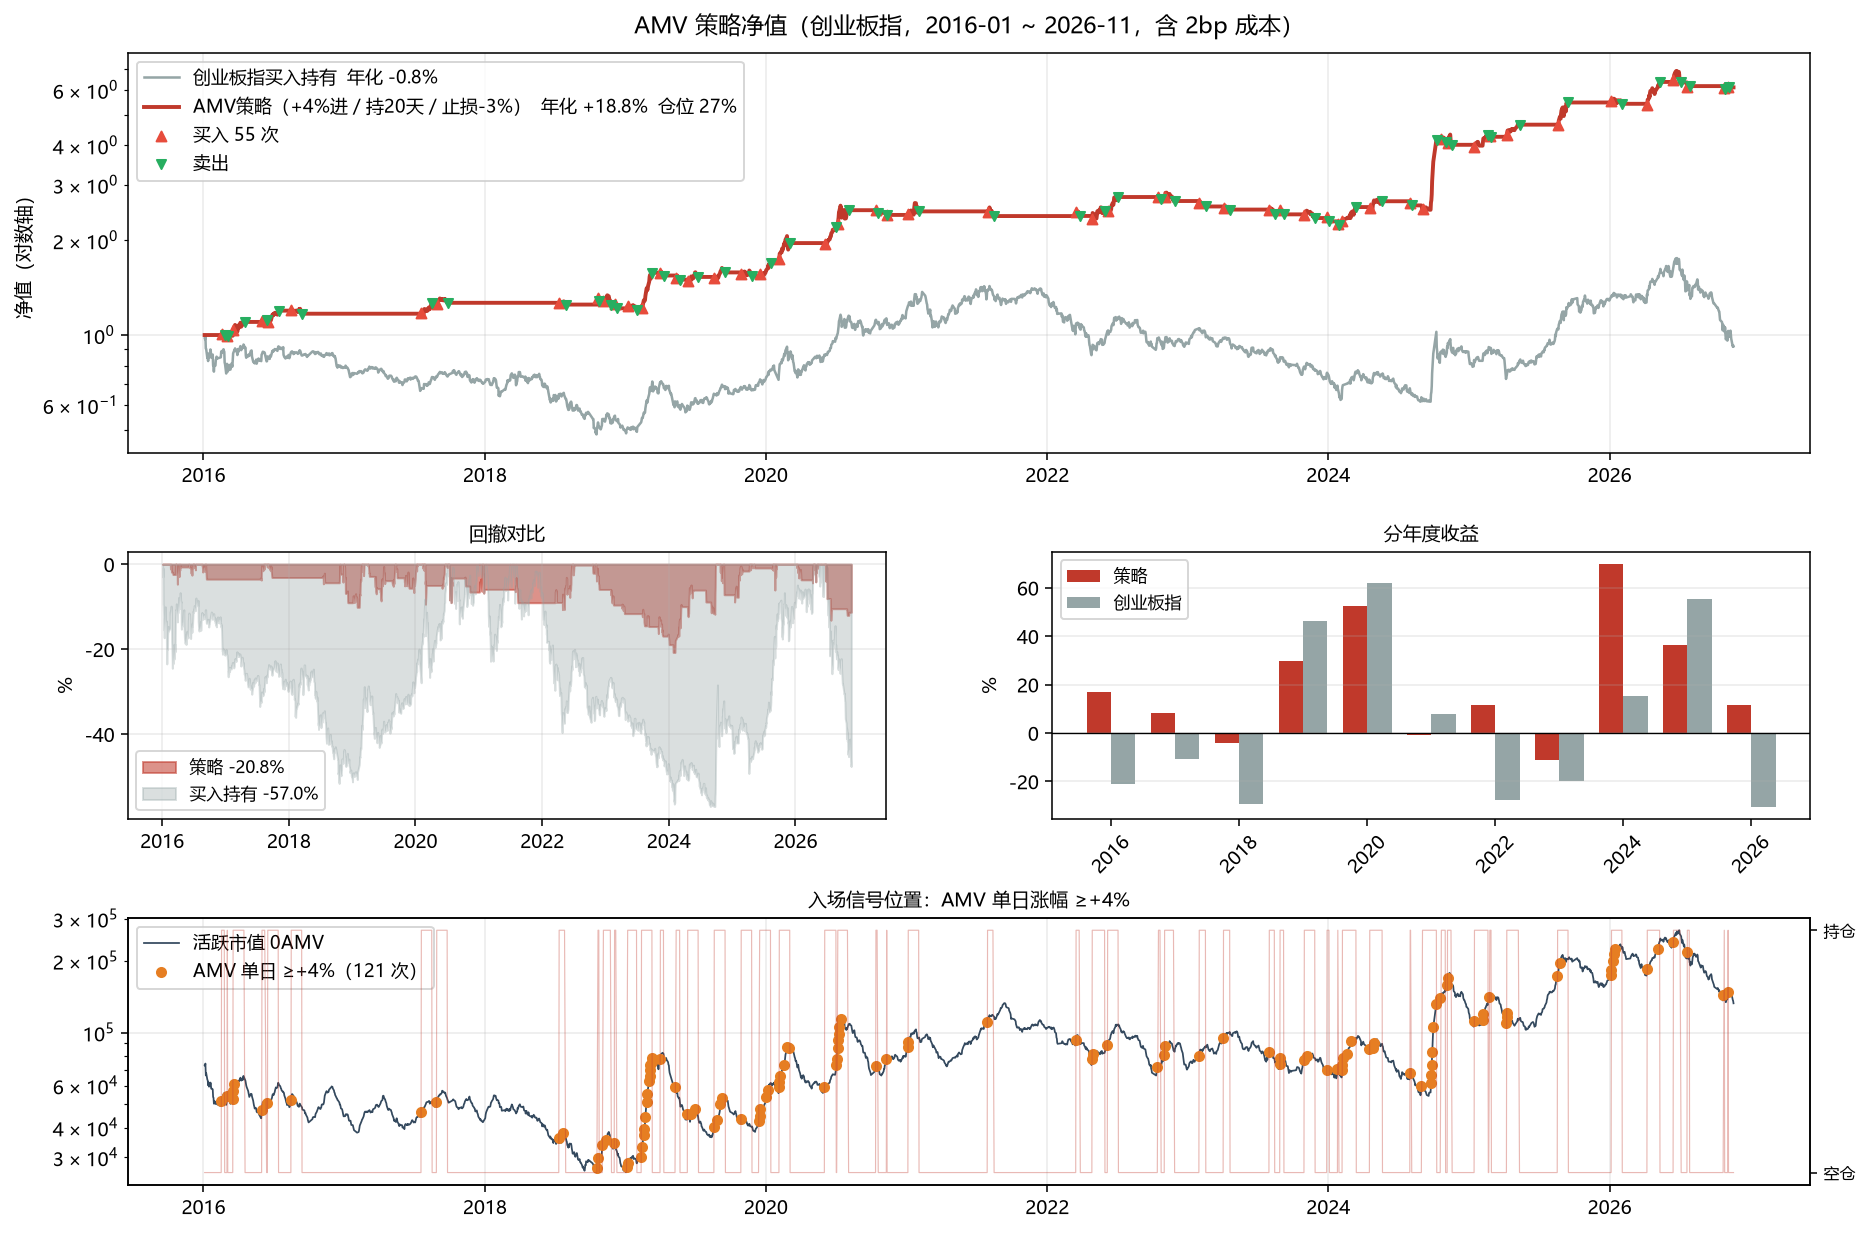
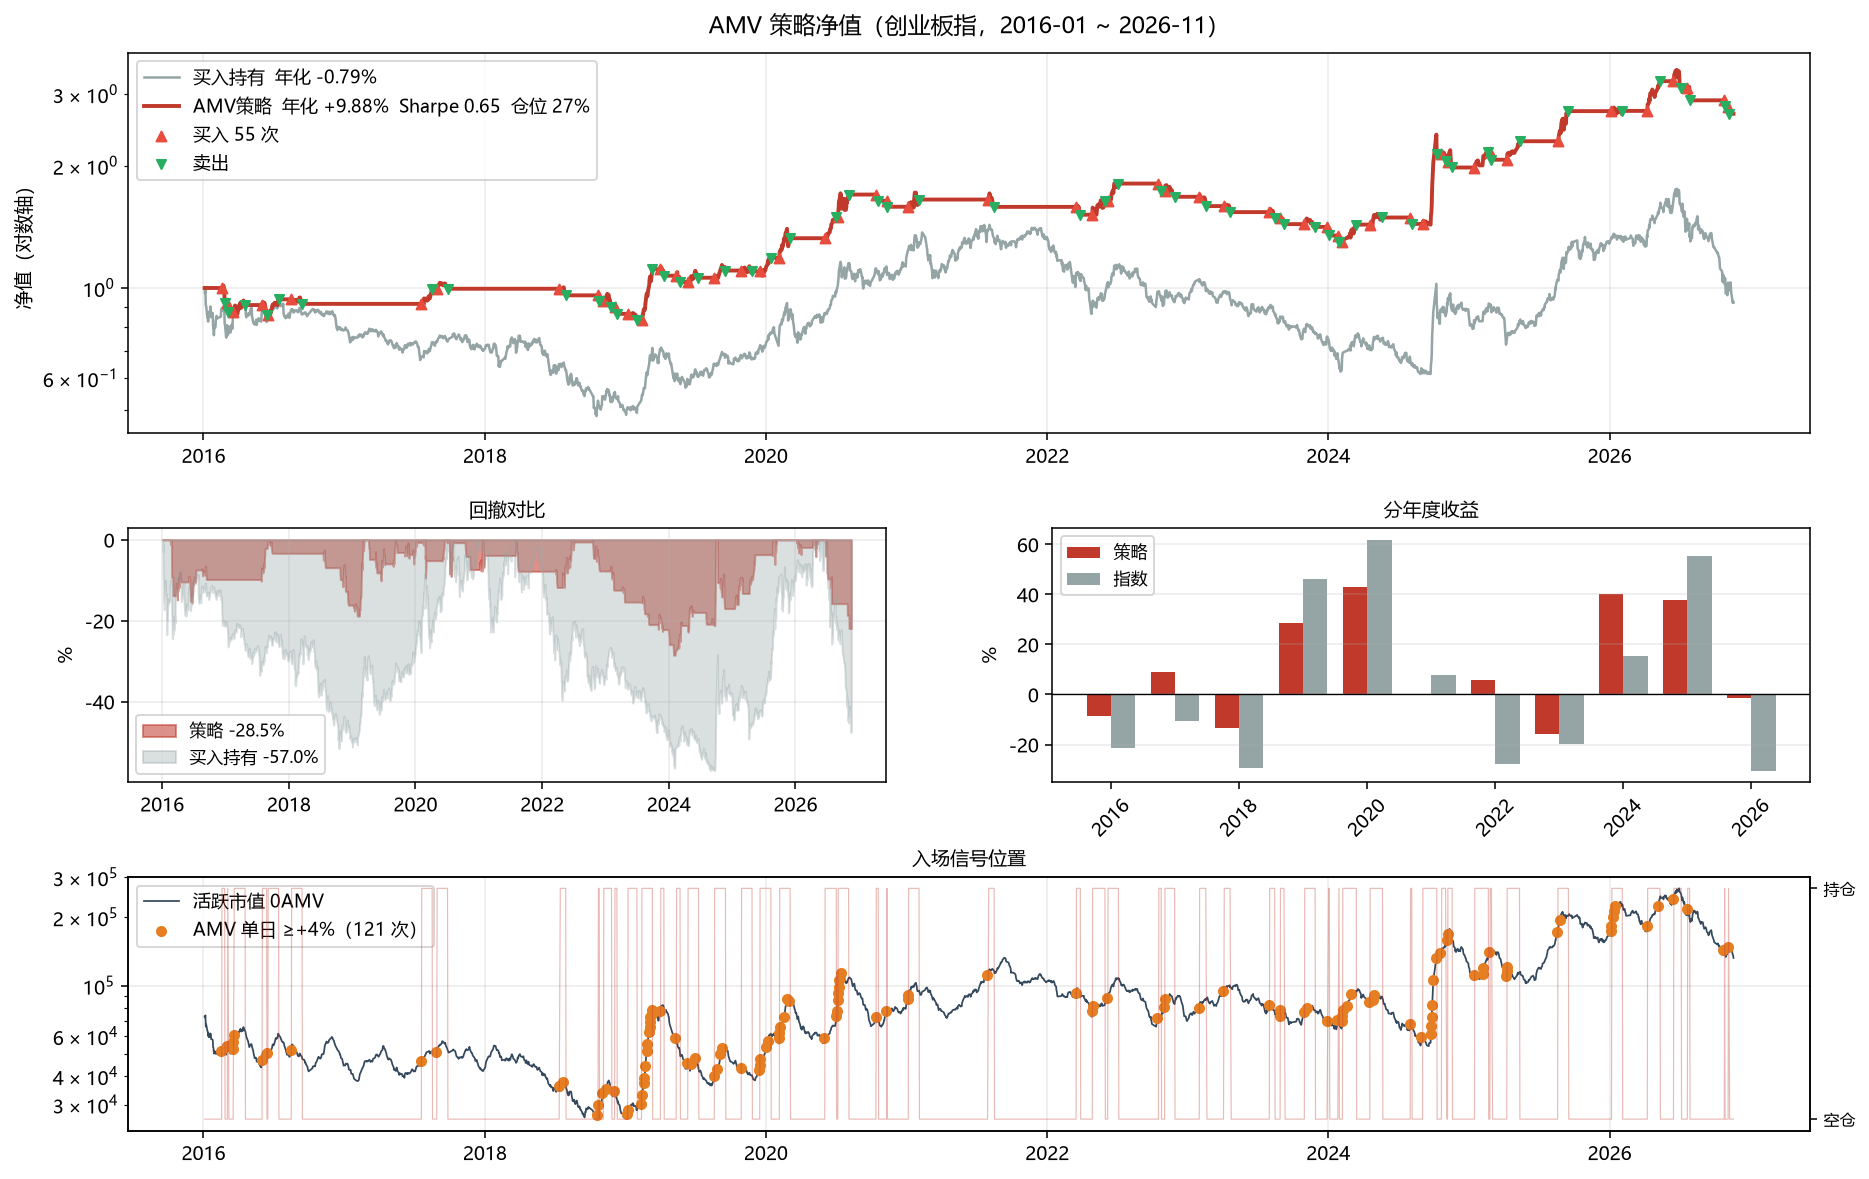
fix: 修正回测引擎仓位切片错误，全部业绩数据重算
问题：pos[bi:si]=1 把买入日当天涨幅计入持仓收益，并漏掉卖出日，
导致净值虚高（创业板年化 18.84% → 实际 9.88%）

修正：pos[bi+1:si+1]=1

重算后：
- 创业板 2016-2026：年化 9.88%，Sharpe 0.65，回撤 -28.5%
- 科创50 2020-2026：年化 8.53%，Sharpe 0.48，回撤 -39.5%
- 上证 2016-2026：年化 3.34%，Sharpe 0.38，回撤 -16.8%
- 执行时点 T vs T+1 差异从 22 个点缩到 0.2 个点（原差异是 bug 造成的假象）
- 位置分层结论不变：深跌区 20日 +7.20%、60日 +9.55%、胜率 76%

新增 PERFORMANCE.md

diff --git a/src/backtest.py b/src/backtest.py
@@ -67,7 +67,9 @@ def run(df: pd.DataFrame,
                     si = n - 1
             if si <= bi:
                 si = min(bi + 2, n - 1)
-            pos[bi:si] = 1
+            # 关键：bi 日收盘买入，收益从 bi+1 日开始计（持有到 si 日收盘卖出）
+            # 写成 pos[bi:si] 会把买入日涨幅算进来，并漏掉卖出日，导致收益虚高
+            pos[bi + 1:si + 1] = 1
             trades.append(dict(sig_date=df["date"].iloc[i], buy_date=df["date"].iloc[bi],
                                sell_date=df["date"].iloc[si],
                                ret=px[si] / px[bi] - 1, days=si - bi))

diff --git a/PERFORMANCE.md b/PERFORMANCE.md
@@ -1,0 +1,154 @@
+# 回测业绩总览
+
+> 数据截至 2026-11-19 · 含 2bp 双边成本 · T 日信号 / T+1 日收盘执行
+> 所有数字可用 `python run_backtest.py` 复现
+
+---
+
+## 一、核心业绩
+
+| 标的 | 区间 | 年化 | Sharpe | 最大回撤 | 笔数 | 胜率 | 平均单笔 | 仓位 |
+|---|---|---|---|---|---|---|---|---|
+| **创业板指** | 2016-01 ~ 2026-11 | **+9.88%** | **0.65** | −28.5% | 55 | 40.0% | +2.29% | 27% |
+| 科创50 | 2020-01 ~ 2026-11 | +8.53% | 0.48 | −39.5% | 37 | 32.4% | +2.07% | 25% |
+| 上证指数 | 2016-01 ~ 2026-11 | +3.34% | 0.38 | −16.8% | 52 | 51.9% | +0.79% | 33% |
+
+**同期买入持有**：创业板 −0.79%、科创50 +3.38%、上证 +0.78%
+
+创业板 55 笔复利 **2.74 倍**（未扣成本），10.9 年折合年化 9.88%。
+
+### 净值曲线
+
+![创业板回测](charts/backtest_cyb.png)
+
+![科创50回测](charts/backtest_kc50.png)
+
+---
+
+## 二、和原始规则对比
+
+同一入场信号，只改出场方式：
+
+| 规则 | 年化 | Sharpe | 最大回撤 | 笔数 | 胜率 |
+|---|---|---|---|---|---|
+| AMV +4% 进 / **−2.3% 出**（原始） | +3.96% | 0.31 | −43.7% | 50 | 46.0% |
+| AMV +4% 进 / **持 20 天 / 止损 −3%** | **+9.88%** | **0.65** | **−28.5%** | 55 | 40.0% |
+
+**年化是原来的 2.5 倍，回撤小 15 个百分点。**
+
+---
+
+## 三、分年度收益（创业板）
+
+| 年份 | 策略 | 创业板指 | 超额 |
+|---|---|---|---|
+| 2016 | −8.6% | −21.2% | +12.6 |
+| 2017 | +9.0% | −10.7% | +19.7 |
+| 2018 | −13.3% | −29.3% | +16.1 |
+| 2019 | +28.4% | +46.3% | −17.9 |
+| 2020 | +42.8% | +61.8% | −19.0 |
+| 2021 | −0.1% | +7.9% | −8.0 |
+| 2022 | +5.9% | −27.8% | +33.7 |
+| 2023 | −15.7% | −19.7% | +4.1 |
+| 2024 | +40.0% | +15.4% | +24.6 |
+| 2025 | +37.7% | +55.5% | −17.8 |
+| 2026 | −1.5% | −30.4% | +28.9 |
+
+**7 年跑赢，4 年跑输（2019/2020/2021/2025 全是牛市）**——仓位只有 27%，涨的时候跑不过满仓，这是择时策略的必然代价。
+
+---
+
+## 四、执行时点
+
+| 执行方式 | 年化 | Sharpe | 笔数 |
+|---|---|---|---|
+| T 日收盘买 | +10.09% | 0.65 | 56 |
+| **T+1 收盘买（本项目口径）** | **+9.88%** | 0.65 | 55 |
+| T+2 收盘买 | +8.05% | 0.54 | 54 |
+
+**差一天只差 0.2 个百分点。** 不必为抢一天去做盘中实时估算。
+
+> 信号日当天创业板平均涨 +3.28%（98% 收阳），但这段涨幅发生在你买入之前，不计入策略收益。
+
+---
+
+## 五、按位置分层（信号质量差异巨大）
+
+信号发生时，指数距 250 日高点的回撤决定成败：
+
+| 位置 | 信号数 | 后 20 日 | 胜率 | 后 60 日 | 胜率 |
+|---|---|---|---|---|---|
+| **深度回撤 < −25%** | 36 | **+7.20%** | 68% | **+9.55%** | **76%** |
+| 中度 −25% ~ −15% | 21 | +3.84% | 57% | −2.66% | 24% |
+| 轻度 −15% ~ −8% | 13 | +1.39% | 69% | −7.05% | 23% |
+| **近高点 −8% ~ −2%** | 15 | **+0.22%** | **33%** | +2.74% | 60% |
+| 创新高附近 > −2% | 28 | +4.49% | 71% | +1.39% | 61% |
+
+**深跌区最肥（20 日 +7.20%、60 日 +9.55%、胜率 76%），近高点最差。**
+
+建议按位置调仓：
+
+| 位置 | 仓位 |
+|---|---|
+| 深跌 < −25% | 满仓 |
+| 中度 / 轻度 | 半仓 |
+| 近高点 −8%~−2% | **不做** |
+| 创新高附近 | 正常 |
+
+---
+
+## 六、收益依赖度
+
+| 处理 | 年化 |
+|---|---|
+| 全部 55 笔 | +9.88% |
+| 剔除最好 1 笔（2024-09-02，+48.4%） | ≈ +3% |
+| 前 5 笔占总收益 | **35%** |
+
+**凸性策略：平时小亏小赚，等一次大的。实盘预期按 6–8% 规划。**
+
+---
+
+## 七、最近 10 笔交易（创业板）
+
+| 买入 | 卖出 | 收益 | 持有天数 |
+|---|---|---|---|
+| 2025-01-15 | 2025-02-20 | +9.21% | 20 |
+| 2025-02-24 | 2025-02-28 | −4.23% | 4 |
+| 2025-04-09 | 2025-05-12 | +11.10% | 20 |
+| 2025-08-19 | 2025-09-16 | +18.65% | 20 |
+| 2026-01-06 | 2026-02-03 | +0.17% | 20 |
+| 2026-04-09 | 2026-05-12 | +18.40% | 20 |
+| 2026-06-16 | 2026-07-06 | −3.76% | 13 |
+| 2026-07-22 | 2026-07-28 | −6.72% | 4 |
+| 2026-10-26 | 2026-10-27 | −3.41% | 1 |
+| 2026-11-05 | 2026-11-06 | −3.96% | 1 |
+
+**最近 5 次入场信号 4 次失败**，其中 3 次发生在「指数已在跌、AMV 滞后」的状态。
+
+---
+
+## 八、风险提示
+
+1. **统计不显著**：55 笔交易，t ≈ 1.2，p > 0.2
+2. **样本短**：创业板 10 年、科创50 仅 6.6 年
+3. **胜率低**：40%（科创50 32%），最长连续亏损 5 笔
+4. **凸性依赖**：去掉 2024-09 那一笔，年化从 9.88% 降到约 3%
+5. **成本假设**：按 2bp 计，实际 ETF 约 3–8bp
+6. **数据来源**：AMV 为指南针专有指标，无公开 API
+
+---
+
+## 九、当前状态（2026-11-19）
+
+| 项 | 值 |
+|---|---|
+| AMV 收盘 | 132,609.11 |
+| 日涨跌 | −2.39% |
+| 距历史峰值（2026-07-01） | **−50.6%** |
+| 250 日区间分位 | **0.0%**（区间最低） |
+| 创业板距 250 日高点 | **−47.5%**（深跌区） |
+| 连续下跌 | 6 天（近 4 日 −9.04%） |
+| 入场信号 | **未触发**（需 ≥+4%，差 6.39 个百分点） |
+
+**位置已在历史最优档（深跌区，20 日胜率 68%、60 日胜率 76%），等一根放量阳线。**
